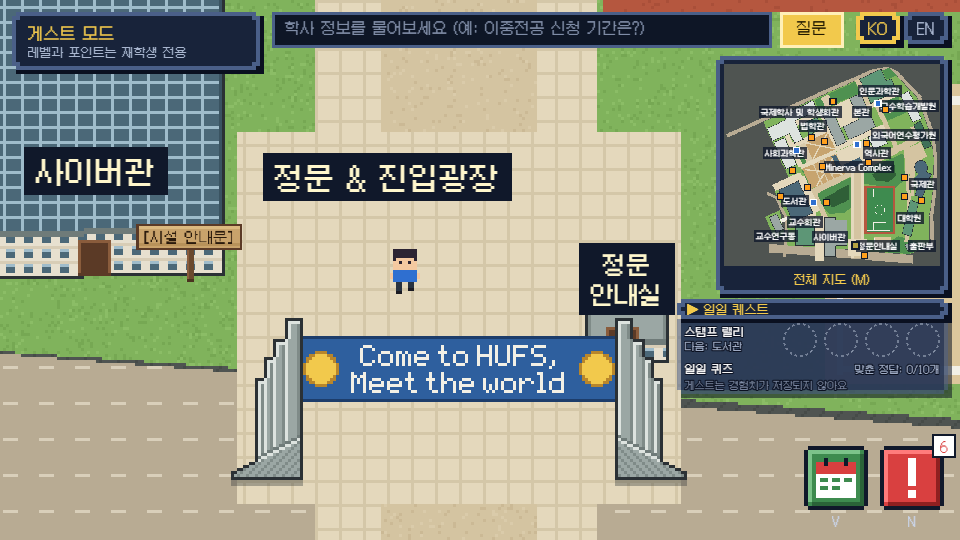
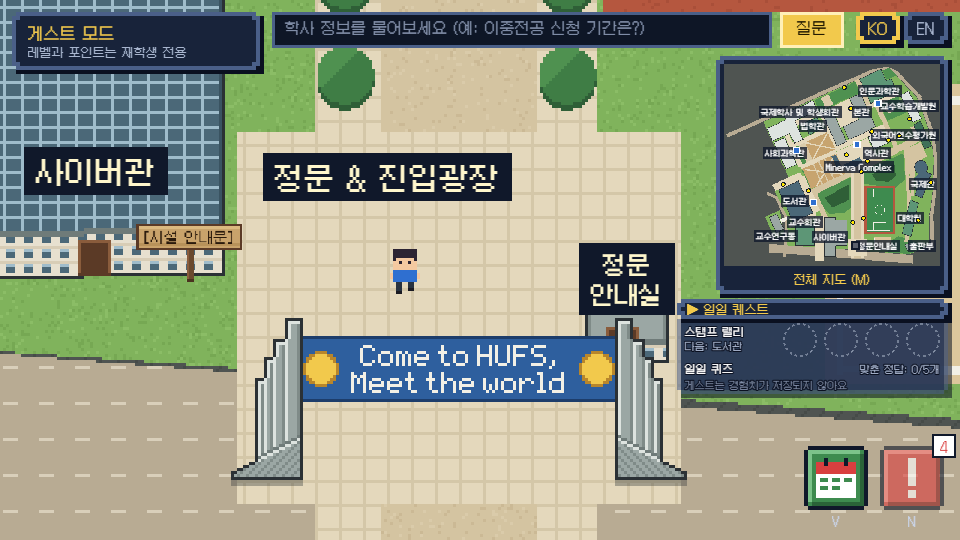
feat: 지도 위 내 위치 표시를 흰색 네모로(미니맵 · 전체 지도)
- 노란 네모(0xffe14d) → 흰색(HERE_COLOR 0xffffff). 어두운 그림자 네모 · 깜빡임 · 크기는 그대로, 다음 부스 강조 테두리(노랑)도 그대로
- 샛노란 퀴즈 점과 색으로 구분됨
- 테스트: 내 위치 색 · 그림자 · 깜빡임 · 두 화면이 같은 상수를 씀 · 부스 강조는 노랑. 일부러 망가뜨려 실패 확인(6가지) 후 원복
- 캡처: 미니맵 확대 · 전체 지도 · 첫 화면 2장(0/5개 · 진입로 가로수 반영) 다시 찍음
- 문서: ARCHITECTURE(일일 퀴즈 5개 · 가로수 81그루 · 내 위치 흰색)

diff --git a/src/scenes/HudScene.js b/src/scenes/HudScene.js
@@ -17,7 +17,7 @@ import { buildingInfo } from "../data/buildingInfo.js";
 import { DAILY_BODY_ALPHA, DAILY_FONT, DAILY_TAB_ALPHA, DAILY_TEXT_ALPHA, DAILY_TEXT_STROKE, HUD_BUTTON, MARGIN, MINIMAP_BUTTON_FONT, MINIMAP_PAD, hudSideLayout, loadDailyCollapsed, saveDailyCollapsed } from "../ui/hudLayout.js";
 import { padLayout, touchSize } from "../ui/firstScreen.js";
 import { addConfetti, addStampMark, addStampSlot } from "../ui/stampMark.js";
-import { drawQuizDot } from "../ui/quizDot.js";
+import { HERE_COLOR, drawQuizDot } from "../ui/quizDot.js";
 
 // 미니맵 · 일일 퀘스트 창 자리는 src/ui/hudLayout.js hudSideLayout(11/27: 오른쪽 위, 미니맵 PC 232px · 휴대폰 194px).
 // 휴대폰 방향키 자리는 src/ui/firstScreen.js padLayout(첫 화면의 사이버관 안내원 화면 x에 맞춤).
@@ -336,7 +336,7 @@ export class HudScene extends Phaser.Scene {
   /*
    * 일일 퀘스트 창(미니맵 바로 아래, 오른쪽 선을 미니맵과 맞춤). 제목 줄을 누르면 접히거나 펴집니다.
    * 접힘: 오른쪽 끝에 붙은 탭 "◀ 일일 퀘스트". 펼침: 오른쪽 선은 그대로, 왼쪽으로 열림(0.2초), 제목 "▶ 일일 퀘스트"(누르면 오른쪽으로 접힘).
-   * 내용: (1) 스탬프 랠리 — 도장 4칸 + "다음: 본관"(완주하면 "완주! +50 EXP") (2) 일일 퀴즈 — "맞춘 정답: 0/10개"(10개면 "완료! 보너스 +50 EXP")
+   * 내용: (1) 스탬프 랠리 — 도장 4칸 + "다음: 본관"(완주하면 "완주! +50 EXP") (2) 일일 퀴즈 — "맞춘 정답: 0/5개"(목표 DAILY_QUIZ_GOAL개면 "완료! 보너스 +50 EXP")
    * 줄을 누르면 상세 창(4곳 체크 목록)이 열리고, 닫으면 미니맵에서 다음 부스가 깜빡입니다.
    */
   renderDailyPanel(layout) {
@@ -538,7 +538,7 @@ export class HudScene extends Phaser.Scene {
     this.drawQuizDots();
 
     this.markerShadow = this.add.rectangle(0, 0, 8 * k, 8 * k, 0x10182a);
-    this.marker = this.add.rectangle(0, 0, 4 * k, 4 * k, 0xffe14d);
+    this.marker = this.add.rectangle(0, 0, 4 * k, 4 * k, HERE_COLOR);
     this.tweens.add({ targets: this.marker, alpha: 0.25, duration: 400, yoyo: true, repeat: -1 });
     this.moveMinimapMarker();
 

diff --git a/src/ui/quizDot.js b/src/ui/quizDot.js
@@ -1,11 +1,15 @@
 /*
  * 지도 위 퀴즈 상자 표시(미니맵 · 전체 지도 공통, 11/27 오후): 작은 샛노란 원 + 1px 어두운 테두리. 깜빡이지 않습니다.
- * 내 위치(노란 깜빡이는 네모) · 다음 부스 강조(노란 네모 테두리, 깜빡임) · 부스(파란 네모)와는 모양(원)과 정지 표시로 구분합니다.
+ * 내 위치(흰색 깜빡이는 네모) · 다음 부스 강조(노란 네모 테두리, 깜빡임) · 부스(파란 네모)와는 모양(원)과 정지 표시로 구분합니다.
  * 크기는 지도마다 다른 점 배율 k에 곱합니다(미니맵 k = MINIMAP dot, 전체 지도 k = QUIZ_DOT.fullMapK).
  * 반지름 1.2 × k = 예전 주황 네모(한 변 4 × k)의 약 60% 지름.
  */
 export const QUIZ_DOT_RADIUS = 1.2;
 export const QUIZ_DOT = { color: 0xffe600, edge: 0x10182a, edgePx: 1, blink: false, squareBefore: 4, fullMapK: 2.5 };
+
+// 지도 위 내 위치 표시 색(미니맵 · 전체 지도 공통, 11/27 저녁 PM 결정: 노랑 0xffe14d → 흰색). 어두운 그림자 네모 · 깜빡임은 그대로.
+export const HERE_COLOR = 0xffffff;
+export const HERE_COLOR_BEFORE = 0xffe14d;
 
 // graphics에 퀴즈 점 하나를 그립니다. (x, y): 지도 위 가운데, k: 점 배율
 export function drawQuizDot(graphics, x, y, k) {

diff --git a/src/scenes/MapScene.js b/src/scenes/MapScene.js
@@ -4,7 +4,7 @@ import { WORLD, findPlace } from "../data/world.js";
 import { getLang, t } from "../state.js";
 import { nearestPlace, overviewInfo, overviewTexture, placeName, trackedDestination } from "../ui/campusMap.js";
 import { addButton, addLabel, addShade, centerLayout, drawPanel } from "../ui/widgets.js";
-import { QUIZ_DOT, drawQuizDot } from "../ui/quizDot.js";
+import { HERE_COLOR, QUIZ_DOT, drawQuizDot } from "../ui/quizDot.js";
 
 const MAP = { x: 92, y: 60 };
 const MAP_BOX = { width: 440, height: 450 }; // 지도 그림이 들어갈 칸. 지도 그림 1px을 정수배로 키워 넣습니다(v1 88×90 → 5배, v2 410×383 → 1배)
@@ -157,7 +157,7 @@ export class MapScene extends Phaser.Scene {
     const { player } = this.scene.get("Campus");
     const { x, y } = this.toMap(player.x, player.y);
     this.add.rectangle(x, y, 12, 12, 0x10182a);
-    const dot = this.add.rectangle(x, y, 8, 8, 0xffe14d);
+    const dot = this.add.rectangle(x, y, 8, 8, HERE_COLOR);
     this.tweens.add({ targets: dot, alpha: 0.2, duration: 400, yoyo: true, repeat: -1 });
     this.addMapTag(x, y, t("mapHere"), "#ffe14d", "#231a00");
 

diff --git a/docs/ARCHITECTURE.md b/docs/ARCHITECTURE.md
@@ -123,7 +123,7 @@ class explore,quiz,notice,progress,rules,userDb,login,limiter,mapInfo,newApi,vec
 | 빠른 검색창 | `src/ui/searchBar.js` → `src/data/askApi.js` → `api/ask.js` (11/20~ `shared/academicDate.js`: 한국 시간 오늘 날짜 · 현재 학기를 지시문에 붙이고, 답변의 날짜(연-월-일 · 월-일)나 연도(YYYY학년도 · YYYY년)가 근거 조각에 없으면 "찾지 못함"으로 바꿈. 테스트 `tests/academicDate.test.js`. 11/20~ `api/_lib/decompose.js`: 질문을 하위 질문 최대 2개로 쪼개(`parseQueries`) 하위 질문마다 동시에 벡터 검색하고 `mergeDocs`로 합침, RPC는 `CHUNKS_RPC`(match_chunks · match_chunks_next만 허용). 테스트 `tests/decompose.test.js`. `api/_lib/answerFormat.js`: 답변의 줄 맨 앞 번호 목록을 지우고, 넘긴 자료 수를 넘는 인용 번호를 지움. 11/22~ 출력 상한(400)에 걸려 끊긴 답은 끝난 문장까지만(`trimTruncated`). 테스트 `tests/answerFormat.test.js`. 11/27~ `api/_lib/contactGuard.js`: 답의 이메일 · 전화번호 · 인터넷 주소가 근거 조각(제목 · 본문 · 출처 주소)이나 질문에 없으면 원문 보여 주기로. 테스트 `tests/contactGuard.test.js`) | 신중혁 |
 | 출처 수집일 | `api/_lib/sourceDates.js`: 검색된 조각 ID로 `chunks` 또는 `chunks_next`의 `collected_at` 일괄 조회, 한국 시간 기준 YYYY-MM-DD 변환. `api/ask.js`의 `citedSources()`가 기존 출처에 `collectedAt` 추가. 동일 URL은 확인 가능한 날짜 중 가장 오래된 수집일 표시. 조회 실패 또는 날짜가 없으면 기존 출처 유지. `src/scenes/DialogScene.js` · `src/state.js`에서 한·영 표시. 테스트 `tests/sourceDates.test.js` · `tests/answerCache.test.js`. SQL 변경 없음, Preview 검수 예정 | 신중혁(서버·테스트) · 이종헌(화면 주 담당) |
 | O/X 퀴즈 | `src/scenes/QuizScene.js`, `src/quizBoxes.js`(상자 자리는 `world.js` `WORLD.quizSpots`), `src/quizProgress.js`, `src/data/quiz.js` | 이종헌(배치) · 신중혁(문항) |
-| 일일 퀘스트 (11/27 PM 결정: 이종헌) | **스탬프 랠리 4곳**(도서관 · 국제학사 및 학생회관 · 본관 · 인문과학관): `shared/stampRally.js`(대상 · 도장 약칭 · 건물별 3지선다 후보 3개 · 한국 날짜로 정해지는 오늘의 문제 · 채점. 문제 · 보기는 `buildingInfo.js` 공식 출처 항목에서만), `src/data/stampRallySpots.js`(출입구 옆 팻말 · 반대쪽 부스 자리 계산, 통과 불가 판정), `src/gfx/rallyTextures.js`(캐노피 부스 · 나무 팻말 그림, 도서관은 3/4 각도), `src/scenes/BoothScene.js`(부스 문제 창), `src/ui/stampMark.js`(도장 · 색종이 연출). 11/27 오후: **"건물 소개 안내원" NPC를 모두 없애고 시설 소개가 있는 13곳에 "[시설 안내문]" 팻말**(`signSpotOf`, 문과 같은 외벽에 붙임, 그림은 80% `SIGN_SCALE` · `BOOTH_SCALE`)을 세워 거기서 `[Enter] 시설 소개`(`officeView.js` `officeSpot`)가 열림. 부스는 랠리 4곳만(문을 사이에 두고 팻말 반대쪽, 팻말 ↔ 부스 거리 예전의 1.5배). 출입문 그림은 1.5배(`campusV2.js` `DOOR_ART_SCALE` · `doorArtRect`, 팻말 · 부스가 2px 여유로 피함), 가로수는 길 위 · 크게 겹친 나무를 뺀 목록만 그림(`cleanedTrees`). **일일 퀴즈**: 오늘 맞춘 정답 n/10, 10개면 보너스. 화면 로직 `src/dailyQuests.js`(게스트는 메모리, 자정 넘김 30초마다 확인), HUD 창 `HudScene.renderDailyPanel` + 배치 `src/ui/hudLayout.js`, 상세 창 `src/ui/questOverlay.js`. 서버는 새 함수 · 새 SQL 없이 `api/quiz-answer.js`(`kind: "booth"` → `reward_log` source `stamp`) · `api/quest-complete.js`(`stampRally` · `dailyQuiz`를 날짜 붙인 id로) · `progress.daily`. 테스트 `tests/stampRally.test.js` · `stampRallySpots.test.js` · `dailyQuests.test.js` · `dailyQuestsServer.test.js` · `hudLayout.test.js` | 이종헌 |
+| 일일 퀘스트 (11/27 PM 결정: 이종헌) | **스탬프 랠리 4곳**(도서관 · 국제학사 및 학생회관 · 본관 · 인문과학관): `shared/stampRally.js`(대상 · 도장 약칭 · 건물별 3지선다 후보 3개 · 한국 날짜로 정해지는 오늘의 문제 · 채점. 문제 · 보기는 `buildingInfo.js` 공식 출처 항목에서만), `src/data/stampRallySpots.js`(출입구 옆 팻말 · 반대쪽 부스 자리 계산, 통과 불가 판정), `src/gfx/rallyTextures.js`(캐노피 부스 · 나무 팻말 그림, 도서관은 3/4 각도), `src/scenes/BoothScene.js`(부스 문제 창), `src/ui/stampMark.js`(도장 · 색종이 연출). 11/27 오후: **"건물 소개 안내원" NPC를 모두 없애고 시설 소개가 있는 13곳에 "[시설 안내문]" 팻말**(`signSpotOf`, 문과 같은 외벽에 붙임, 그림은 80% `SIGN_SCALE` · `BOOTH_SCALE`)을 세워 거기서 `[Enter] 시설 소개`(`officeView.js` `officeSpot`)가 열림. 부스는 랠리 4곳만(문을 사이에 두고 팻말 반대쪽, 팻말 ↔ 부스 거리 예전의 1.5배). 출입문 그림은 1.5배(`campusV2.js` `DOOR_ART_SCALE` · `doorArtRect`, 팻말 · 부스가 2px 여유로 피함), 가로수는 길 위 · 크게 겹친 나무를 뺀 목록만 그림(`cleanedTrees`). **일일 퀴즈**: 오늘 맞춘 정답 n/5, 5개(`DAILY_QUIZ_GOAL`, 11/27 저녁 10 → 5)면 보너스. 화면 로직 `src/dailyQuests.js`(게스트는 메모리, 자정 넘김 30초마다 확인), HUD 창 `HudScene.renderDailyPanel` + 배치 `src/ui/hudLayout.js`, 상세 창 `src/ui/questOverlay.js`. 서버는 새 함수 · 새 SQL 없이 `api/quiz-answer.js`(`kind: "booth"` → `reward_log` source `stamp`) · `api/quest-complete.js`(`stampRally` · `dailyQuiz`를 날짜 붙인 id로) · `progress.daily`. 테스트 `tests/stampRally.test.js` · `stampRallySpots.test.js` · `dailyQuests.test.js` · `dailyQuestsServer.test.js` · `hudLayout.test.js` | 이종헌 |
 | 마감 임박 공지 | `src/ui/deadlineOverlay.js` → `api/deadlines.js` ← `shared/deadlines.js` | 이종헌(화면) · 임현규(데이터) · 신중혁(추출) |
 | 새 공지 알림 · 초안(운영 도구) | `.github/workflows/notice-watch.yml`(하루 3회) → `scripts/notice-watch.mjs` · `scripts/lib/noticeWatch.mjs`(고정된 목록 페이지 4곳에서 제목 · 게시일 · 글 번호만, 본문 안 엶) → 새 글 GitHub 이슈(담당 임현규). 사람이 본문을 `.local/notices/`에 복사 → `scripts/notice-draft.mjs` · `scripts/lib/noticeDraft.mjs`(공지 추출 도우미 실행 → `shared/deadlines.js`에 `checked` 없이 추가 → Draft PR). `api/deadlines.js`는 `checked` 있는 항목만 응답. 사용법 `docs/NOTICE_FLOW.md` | 임현규 |
 | 공지 추출 도우미(CLI) | 팀원이 직접 복사한 공지 원문 → `scripts/extract-notice.mjs`(HyperCLOVA X 추출) → `scripts/lib/noticeDate.mjs`(날짜 해석) · `noticeEvidence.mjs`(원문 근거 연결) · `noticeExtract.mjs`(검증) → 입력용 JSON 초안 → 팀 검수 후 `shared/deadlines.js`에 수동 반영. 게시판 자동 수집 및 자동 데이터 반영 없음 | 신중혁 |
@@ -170,8 +170,8 @@ class explore,quiz,notice,progress,rules,userDb,login,limiter,mapInfo,newApi,vec
 1. 대상 4곳의 출입구 옆 "[시설 안내문]" 팻말에서 `[Enter] 시설 소개`로 그 건물 시설 안내(`officeOverlay.js`)를 읽습니다.
 2. 반대쪽 "[스탬프 랠리 부스]" 앞에서 `[Enter] 스탬프 랠리` → `BoothScene`이 `shared/stampRally.js` `boothQuestionFor(건물 ID, 한국 날짜)`로 오늘의 3지선다 문제를 보여 줍니다.
 3. 보기를 고르면 `dailyQuests.submitBoothAnswer` → 재학생은 `progressApi.answerBooth`(`POST /api/quiz-answer` `{ kind: "booth", buildingId, choiceIndex }`). 서버가 같은 함수로 오늘의 문제를 다시 골라 채점하고, 정답이면 `reward_log`에 source `stamp` · ref_id `"날짜:건물 ID"` · 경험치 0으로 기록합니다(같은 날 같은 부스는 한 번). 게스트는 서버 없이 화면에서 채점해 메모리에만 둡니다.
-4. 4번째 스탬프 직후 화면이 `POST /api/quest-complete` `{ questId: "stampRally" }`를 보내고, 서버가 오늘 스탬프 4곳을 확인한 뒤 `complete_quest`를 `stampRally:날짜`로 불러 경험치 50 · 포인트 10을 줍니다(하루 한 번). 일일 퀴즈도 같은 방식으로 10번째 정답 직후 `dailyQuiz`를 보냅니다(보너스 경험치 50).
-5. 응답의 `progress.daily`로 HUD 일일 퀘스트 창(도장 4칸 · 맞춘 정답 n/10)을 다시 그립니다. 한국 시간 자정이 지나면 30초마다 하는 확인에서 0으로 바뀝니다.
+4. 4번째 스탬프 직후 화면이 `POST /api/quest-complete` `{ questId: "stampRally" }`를 보내고, 서버가 오늘 스탬프 4곳을 확인한 뒤 `complete_quest`를 `stampRally:날짜`로 불러 경험치 50 · 포인트 10을 줍니다(하루 한 번). 일일 퀴즈도 같은 방식으로 5번째 정답 직후 `dailyQuiz`를 보냅니다(보너스 경험치 50).
+5. 응답의 `progress.daily`로 HUD 일일 퀘스트 창(도장 4칸 · 맞춘 정답 n/5)을 다시 그립니다. 한국 시간 자정이 지나면 30초마다 하는 확인에서 0으로 바뀝니다.
 
 **재학생 로그인부터 캠퍼스 입장까지**
 1. 타이틀 "재학생 로그인" → `loginOverlay`에서 학교 메일 아이디(영문 대 · 소문자와 숫자, 최대 64자, 보낼 때 소문자로 변환) + 도메인 목록(`@hufs.ac.kr`)으로 이메일을 조립합니다. 아이디 · 이메일은 저장하거나 로그로 남기지 않습니다.
@@ -225,5 +225,5 @@ class explore,quiz,notice,progress,rules,userDb,login,limiter,mapInfo,newApi,vec
 | 2026-11-27 | 사용량 제한: 전체 하루 상한 500 → 2000, eval 토큰 요청은 `ask_hit` 없이 메모리 1분 120회만(`eval-bypass`). 파일 표 사용량 제한 줄 갱신(상자 · 연결선 변화 없음) | eval 한도 분리 PR |
 | 2026-11-27 | 일일 퀘스트 추가(PM 결정: 이종헌): 캠퍼스 스탬프 랠리 4곳(부스 · 시설 안내문 팻말 · 부스 문제 은행) + 일일 퀴즈 + HUD 일일 퀘스트 창, 미니맵 20% 축소, 퀴즈 하루 상한 50 → 100. 상자 `daily` · `rallyBank`와 연결선 추가, 파일 표 "일일 퀘스트" 줄 추가 · HUD 줄 갱신, 주요 흐름 추가. 새 서버 함수 · 새 SQL 없음 | 일일 퀘스트 PR |
 | 2026-11-27 | HUD 배치 변경(PM 결정: 이종헌): 미니맵(232 · 194px)과 일일 퀘스트 창을 오른쪽 위로, 첫 화면 카메라 가로 오프셋(정문이 가리면), 휴대폰 방향키를 사이버관 안내원 화면 x에. 파일 표 HUD 줄 갱신(상자 · 연결선 변화 없음), 새 파일 `src/ui/firstScreen.js` · `src/ui/searchBarLayout.js` | 일일 퀘스트 PR |
-| 2026-11-27 | 오후 다듬기(PM 결정: 이종헌): 미니맵 · 일일 퀘스트 창 7% 줄임 · 본문 반투명, 팻말 · 부스 80% · 팻말 외벽에 붙임 · 부스 거리 1.5배, 안내원 NPC → 팻말 13곳, 출입문 그림 1.5배, 가로수 정리(100 → 49그루). 파일 표 HUD · 일일 퀘스트 줄 갱신(상자 · 연결선 변화 없음), 새 테스트 `tests/campusTrees.test.js` | 일일 퀘스트 PR |
+| 2026-11-27 | 오후 다듬기(PM 결정: 이종헌): 미니맵 · 일일 퀘스트 창 7% 줄임 · 본문 반투명, 팻말 · 부스 80% · 팻말 외벽에 붙임 · 부스 거리 1.5배, 안내원 NPC → 팻말 13곳, 출입문 그림 1.5배, 가로수 정리(100 → 49그루, 11/27 저녁에 보도 가장자리 가로수 줄 32그루를 되살려 81그루 `TREE_ROW`), 지도 위 내 위치 표시 흰색(`HERE_COLOR`). 파일 표 HUD · 일일 퀘스트 줄 갱신(상자 · 연결선 변화 없음), 새 테스트 `tests/campusTrees.test.js` | 일일 퀘스트 PR |
 | 2026-11-27 | 근거에 없는 연락처 · 주소 검사(`api/_lib/contactGuard.js` `unsupportedContacts`, PM 결정: 이종헌): 주요 흐름 5번 · 빠른 검색창 파일 표 갱신(상자 · 연결선 변화 없음) | 연락처 검사 PR |
